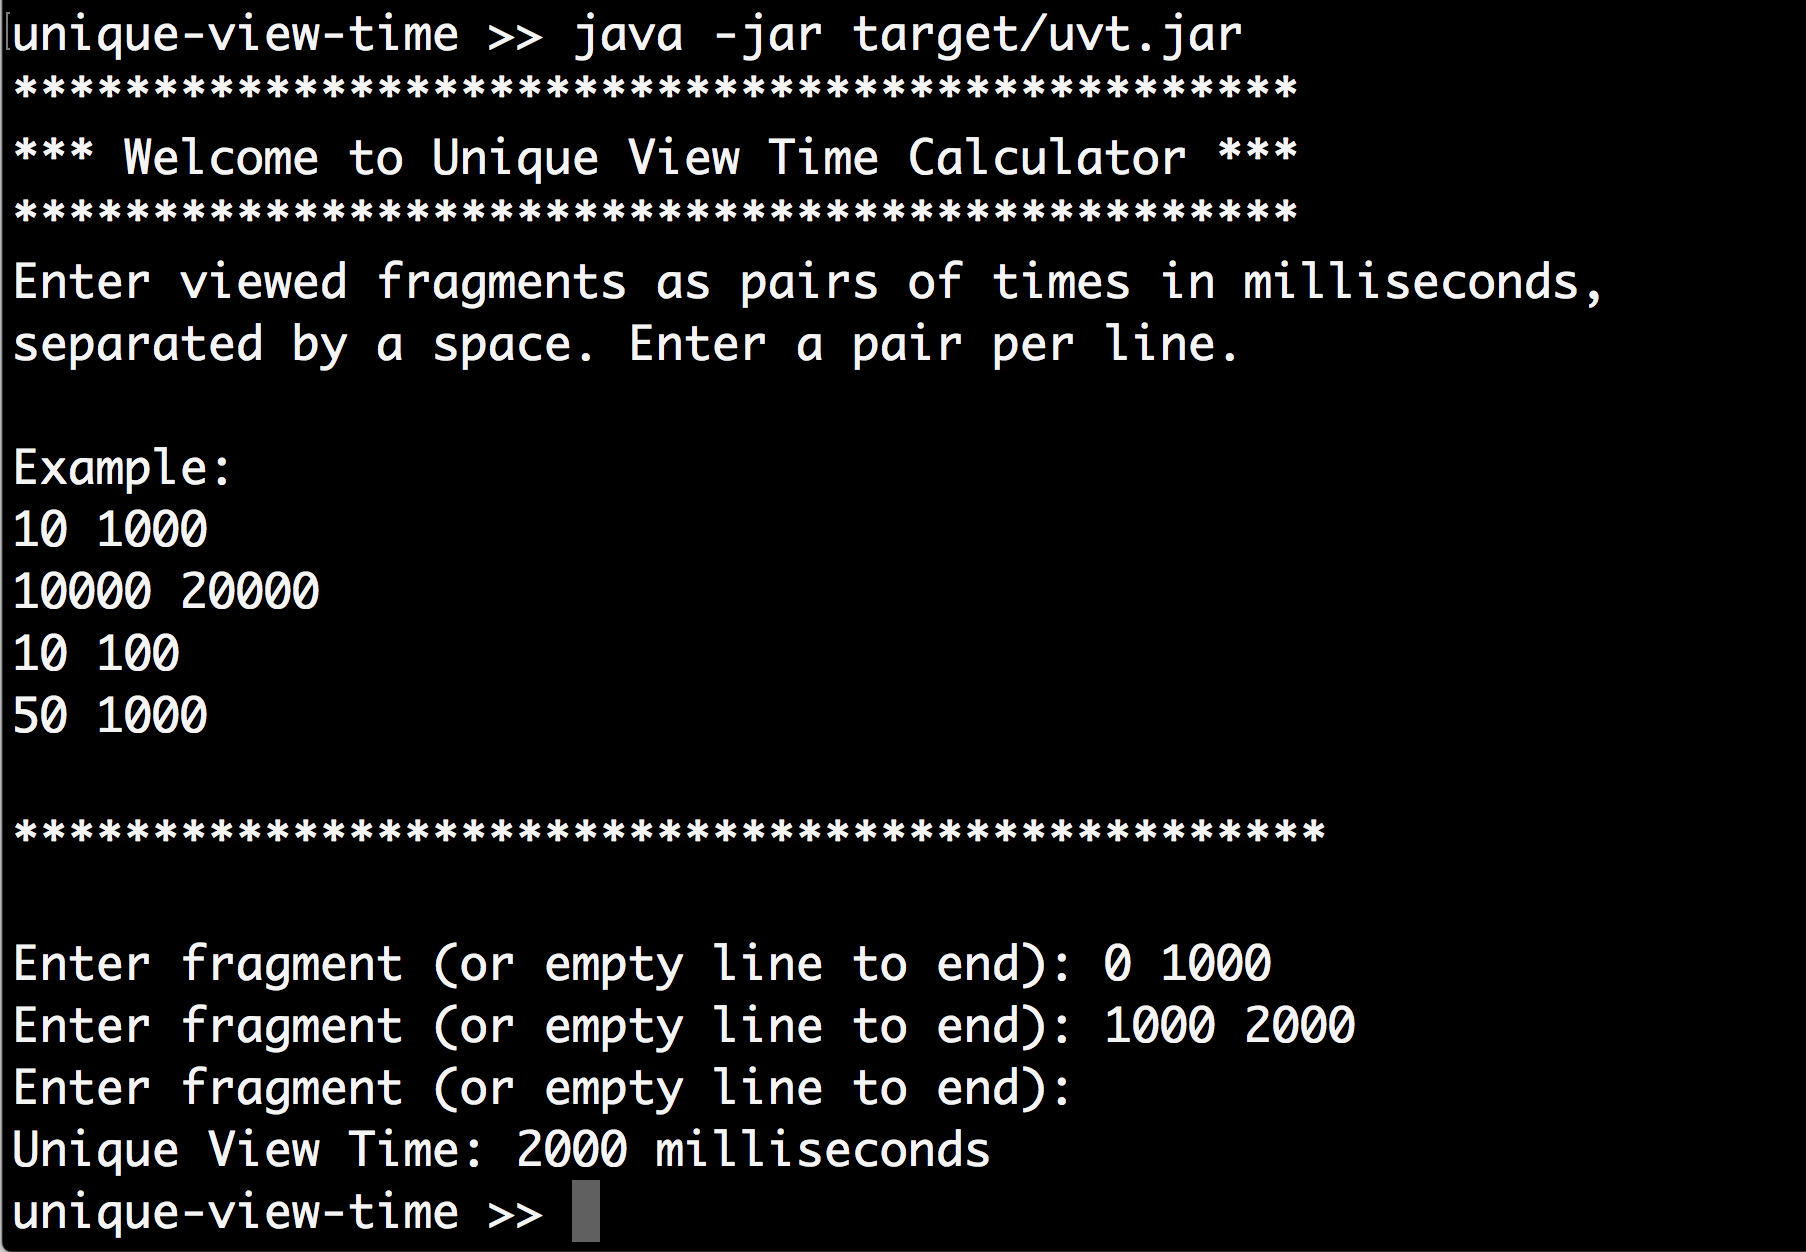
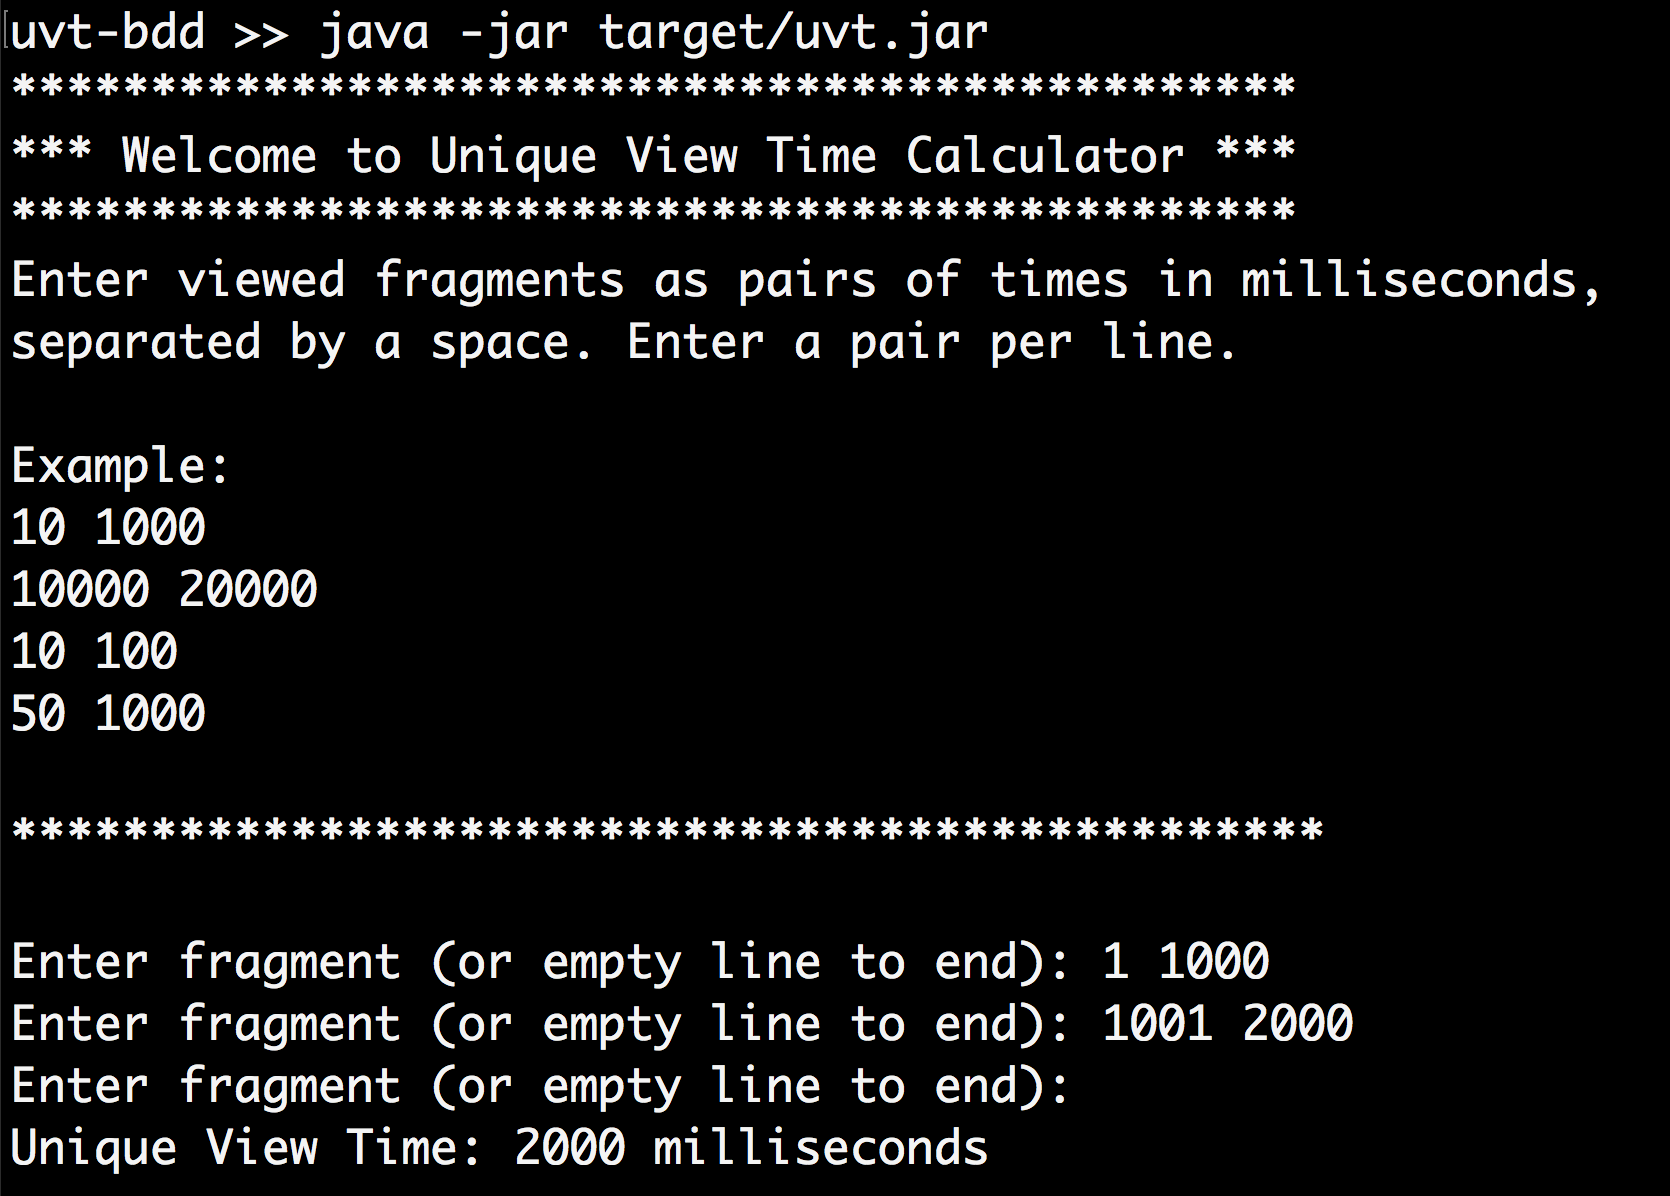
Fixed bug in uvt algorithm for time range to make endTime inclusive, updated tests and snapshots

diff --git a/src/test/java/com/shaundashjian/uvt/UvtCalculatorUnitTests.java b/src/test/java/com/shaundashjian/uvt/UvtCalculatorUnitTests.java
@@ -15,35 +15,35 @@ public class UvtCalculatorUnitTests {
 	}
 	
     @Test
-    public void test_one_fragment_0_100000_should_return_100000() {
-        uvtCalculator.addFragment(new Fragment(0, 100000));
+    public void test_one_fragment_1_100000_should_return_100000() {
+        uvtCalculator.addFragment(new Fragment(1, 100000));
         int expectedUvt = 100000;
         
         assertEquals(expectedUvt, uvtCalculator.getUvt());
     }
     
     @Test
-    public void test_two_fragments_second_inside_the_first_0_100000_0_50000_should_return_100000() {
-    	uvtCalculator.addFragment(new Fragment(0, 100000));
-    	uvtCalculator.addFragment(new Fragment(0, 50000));
+    public void test_two_fragments_second_inside_the_first_1_100000_1_50000_should_return_100000() {
+    	uvtCalculator.addFragment(new Fragment(1, 100000));
+    	uvtCalculator.addFragment(new Fragment(1, 50000));
     	int expectedUvt = 100000;
     	
     	assertEquals(expectedUvt, uvtCalculator.getUvt());
     }
     
     @Test
-    public void test_two_separate_fragments_0_100000_200000_300000_should_return_200000() {
-    	uvtCalculator.addFragment(new Fragment(0, 100000));
-    	uvtCalculator.addFragment(new Fragment(200000, 300000));
+    public void test_two_separate_fragments_1_100000_200001_300000_should_return_200000() {
+    	uvtCalculator.addFragment(new Fragment(1, 100000));
+    	uvtCalculator.addFragment(new Fragment(200001, 300000));
     	int expectedUvt = 200000;
     	
     	assertEquals(expectedUvt, uvtCalculator.getUvt());
     }
     
     @Test
-    public void test_two_overlapping_fragments_0_100000_50000_300000_should_return_300000() {
-    	uvtCalculator.addFragment(new Fragment(0,100000));
-    	uvtCalculator.addFragment(new Fragment(50000, 300000));
+    public void test_two_overlapping_fragments_1_100000_50001_300000_should_return_300000() {
+    	uvtCalculator.addFragment(new Fragment(1,100000));
+    	uvtCalculator.addFragment(new Fragment(50001, 300000));
     	int expectedUvt = 300000;
     	
     	assertEquals(expectedUvt, uvtCalculator.getUvt());

diff --git a/src/main/java/com/shaundashjian/uvt/UvtCalculator.java b/src/main/java/com/shaundashjian/uvt/UvtCalculator.java
@@ -28,7 +28,7 @@ public class UvtCalculator {
 		for (Fragment fragment : fragments) {
 			int startTime = fragment.getStartTime();
 			int endTime = fragment.getEndTime();
-			for (int i = startTime; i < endTime; i++) {
+			for (int i = startTime; i <= endTime; i++) {
 				if (!viewedMilliseconds.containsKey(i)) {
 					viewedMilliseconds.put(i, true);
 				}
